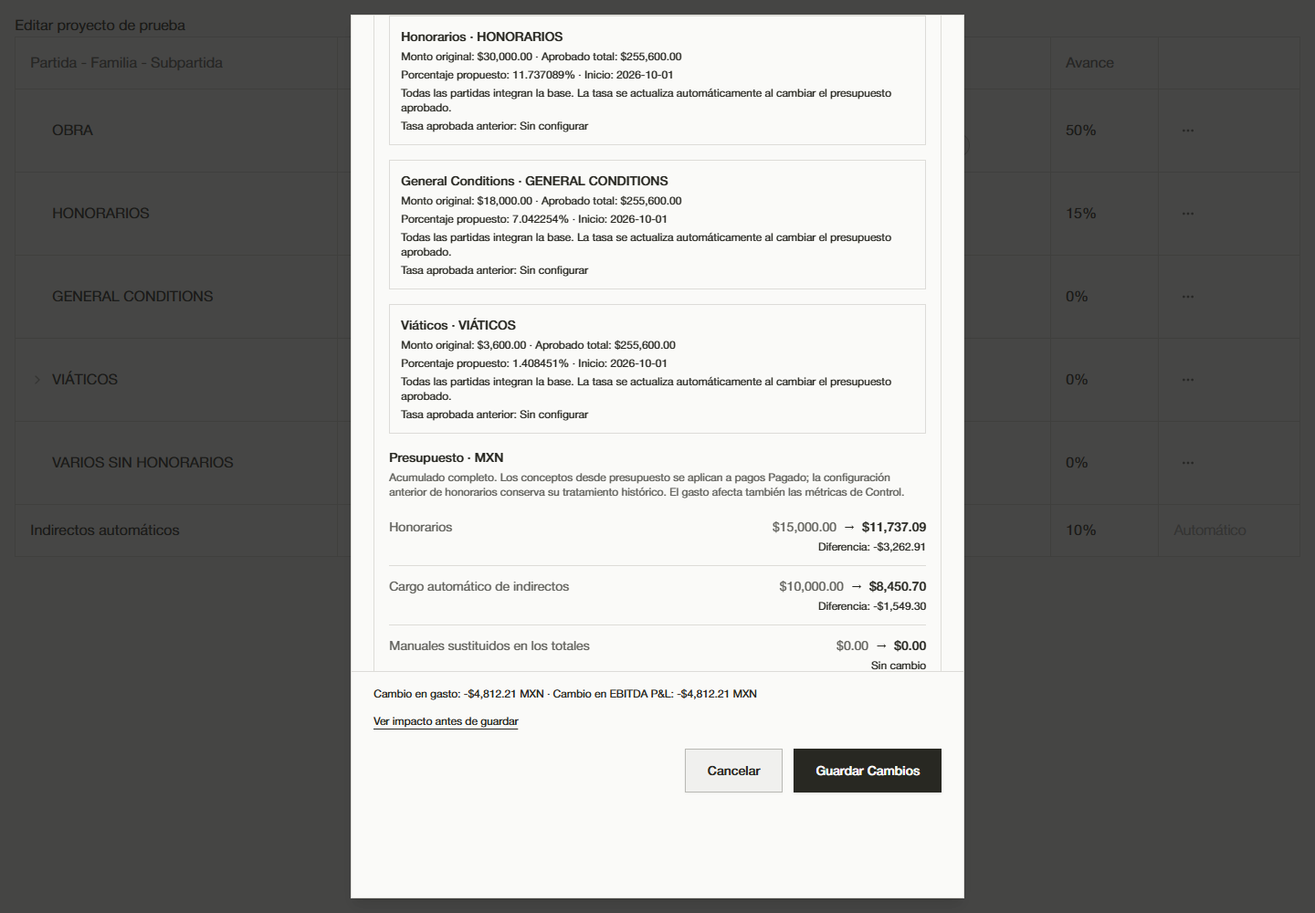
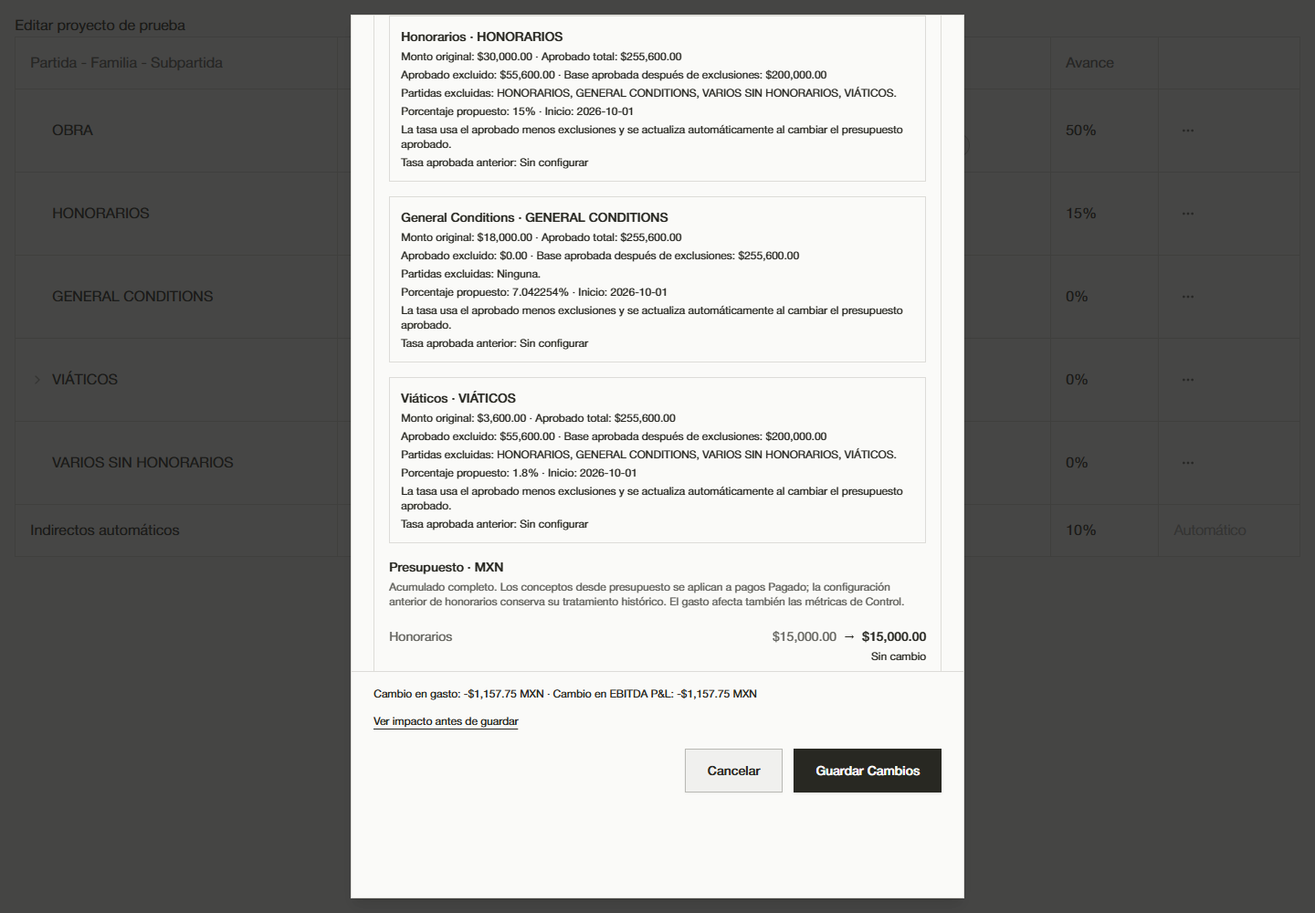
Use approved budget minus exclusions for project fee percentages

Changed region(s): [[0.2812, 0.062, 0.7188, 0.744], [0.5312, 0.744, 0.5625, 0.775], [0.375, 0.744, 0.4062, 0.775]]

diff --git a/src/components/modals/fee-concept-editor.tsx b/src/components/modals/fee-concept-editor.tsx
@@ -1,6 +1,8 @@
+import { useState } from "react";
 import type { Doc, Id } from "../../../convex/_generated/dataModel";
 import { deriveFeeConcepts, FEE_CONCEPT_LABELS, type FeeConceptInput, type FeeConceptConfig, type FeeConceptKind } from "../../../convex/feeConceptRules";
 import { Checkbox } from "@/components/ui/checkbox";
+import { Input } from "@/components/ui/input";
 import { Label } from "@/components/ui/label";
 import { Select, SelectContent, SelectItem, SelectTrigger, SelectValue } from "@/components/ui/select";
 
@@ -9,6 +11,32 @@ const matches = (name: string, kind: FeeConceptKind) => {
   return ({ honorarios: /^honorarios(?:\s|$)/, indirectos: /indirecto/, general_conditions: /general condition|condicion(?:es)? general/, viaticos: /viatico/ })[kind].test(value.trim());
 };
 const money = (value: number, currency: string) => new Intl.NumberFormat("es-MX", { style: "currency", currency }).format(value);
+function ConceptExclusions({ concept, roots, currency, onChange }: {
+  concept: FeeConceptInput; roots: Doc<"partidas">[]; currency: string; onChange: (ids: Id<"partidas">[]) => void;
+}) {
+  const [search, setSearch] = useState("");
+  const normalize = (value: string) => value.normalize("NFD").replace(/[\u0300-\u036f]/g, "").toLowerCase();
+  const filtered = roots.filter(root => normalize(root.nombre).includes(normalize(search.trim())));
+  const label = FEE_CONCEPT_LABELS[concept.concepto];
+  return <details className="space-y-2 text-sm">
+    <summary className="min-h-11 cursor-pointer py-2">Partidas excluidas de la base de {label} ({concept.excluded_partidas.length})</summary>
+    <Label htmlFor={`exclusion-search-${concept.concepto}`}>Buscar partidas para excluir en {label}</Label>
+    <Input id={`exclusion-search-${concept.concepto}`} value={search} onChange={event => setSearch(event.target.value)} placeholder="Nombre de la partida" />
+    <div className="max-h-48 space-y-1 overflow-y-auto border p-2">
+      {filtered.map(root => <div key={root._id} className="flex min-h-11 items-center gap-2">
+        <Checkbox id={`exclude-${concept.concepto}-${root._id}`} checked={concept.excluded_partidas.includes(root._id)} onCheckedChange={checked => onChange(checked
+          ? [...new Set([...concept.excluded_partidas, root._id])]
+          : concept.excluded_partidas.filter(id => id !== root._id))} />
+        <Label htmlFor={`exclude-${concept.concepto}-${root._id}`} className="min-w-0 flex-1 cursor-pointer break-words">
+          <span className="sr-only">Excluir de la base de {label}: </span>{root.nombre}
+          <span className="block text-xs text-muted-foreground">Aprobado: {money(root.presupuesto_aprobado, currency)}</span>
+        </Label>
+      </div>)}
+      {!filtered.length && <p className="text-xs text-muted-foreground">No hay partidas que coincidan con la búsqueda.</p>}
+    </div>
+    <p className="text-xs text-muted-foreground">Se resta el aprobado de cada partida seleccionada una sola vez, con sus familias y subpartidas incluidas.</p>
+  </details>;
+}
 export default function FeeConceptEditor({ value, approved, partidas, currency, onChange }: {
   value: FeeConceptInput[]; approved: readonly FeeConceptConfig[]; partidas: Doc<"partidas">[]; currency: string;
   onChange: (value: FeeConceptInput[]) => void;
@@ -18,7 +46,7 @@ export default function FeeConceptEditor({ value, approved, partidas, currency, 
   return <div className="space-y-4 border-t pt-4">
     <div className="space-y-1">
       <h3 className="text-base font-medium">Porcentajes sobre presupuesto aprobado</h3>
-      <p className="text-xs text-muted-foreground">Porcentaje = monto original del concepto ÷ presupuesto aprobado total del proyecto × 100. Se consideran todas las partidas.</p>
+      <p className="text-xs text-muted-foreground">Porcentaje = monto original del concepto ÷ (presupuesto aprobado total del proyecto − aprobado de las partidas excluidas) × 100.</p>
       <p className="text-xs text-muted-foreground">Al cambiar el presupuesto aprobado, los porcentajes y cargos se actualizan automáticamente. Los cargos se aplican a todos los pagos Pagado desde el 1 de octubre de 2026.</p>
       <p className="text-xs text-muted-foreground">El cargo se distribuye entre familias y subpartidas según sus montos originales; el total es la suma del desglose.</p>
     </div>
@@ -45,9 +73,12 @@ export default function FeeConceptEditor({ value, approved, partidas, currency, 
             <SelectTrigger id={`source-${kind}`}><SelectValue placeholder="Selecciona una partida" /></SelectTrigger>
             <SelectContent>{roots.map(root => <SelectItem key={root._id} value={root._id}>{root.nombre}</SelectItem>)}</SelectContent>
           </Select>
+          <ConceptExclusions concept={current} roots={roots} currency={currency} onChange={ids => update(kind, { excluded_partidas: ids })} />
           {calculation && <dl className="space-y-1 text-sm" aria-live="polite">
             <div><dt className="inline text-muted-foreground">Monto original: </dt><dd className="inline">{money(calculation.monto_original, currency)}</dd></div>
-            <div><dt className="inline text-muted-foreground">Presupuesto aprobado total: </dt><dd className="inline">{money(calculation.base_aprobada!, currency)}</dd></div>
+            <div><dt className="inline text-muted-foreground">Presupuesto aprobado total: </dt><dd className="inline">{money(calculation.aprobado_total!, currency)}</dd></div>
+            <div><dt className="inline text-muted-foreground">Aprobado excluido: </dt><dd className="inline">{money(calculation.aprobado_excluido!, currency)}</dd></div>
+            <div><dt className="inline text-muted-foreground">Base aprobada después de exclusiones: </dt><dd className="inline">{money(calculation.base_aprobada!, currency)}</dd></div>
             <div><dt className="inline text-muted-foreground">Porcentaje calculado: </dt><dd className="inline font-medium" data-testid={`rate-${kind}`}>{calculation.porcentaje.toLocaleString("es-MX", { maximumFractionDigits: 6 })}%</dd></div>
             {old && <div><dt className="inline text-muted-foreground">Tasa actual: </dt><dd className="inline">{old.porcentaje.toLocaleString("es-MX", { maximumFractionDigits: 6 })}%</dd></div>}
           </dl>}

diff --git a/convex/feeConceptRules.ts b/convex/feeConceptRules.ts
@@ -1,16 +1,18 @@
 import type { Id } from "./_generated/dataModel";
 
 export const FEE_CONCEPT_START = "2026-10-01";
+export const FEE_CONCEPT_CALCULATION_VERSION = 2;
 export const FEE_CONCEPT_LABELS = {
   honorarios: "Honorarios", indirectos: "Indirectos", general_conditions: "General Conditions", viaticos: "Viáticos",
 } as const;
 export type FeeConceptKind = keyof typeof FEE_CONCEPT_LABELS;
 export type FeeConceptInput = { concepto: FeeConceptKind; partida_id: Id<"partidas">; excluded_partidas: Id<"partidas">[] };
-export type FeeConceptConfig = FeeConceptInput & { porcentaje: number; monto_original: number; base_original: number; base_aprobada?: number; fecha_inicio: string };
+export type FeeConceptConfig = FeeConceptInput & { porcentaje: number; monto_original: number; base_original: number; base_aprobada?: number; aprobado_total?: number; aprobado_excluido?: number; fecha_inicio: string };
 export type FeeConceptPartida = { _id: string; proyecto?: string; nivel: number; nombre: string; partida_nombre?: string; familia?: string; presupuesto_original?: number; presupuesto_aprobado?: number };
 export function canonicalFeeConcepts(configs: readonly FeeConceptConfig[] = []) {
   return configs.map(c => ({ concepto: c.concepto, partida_id: c.partida_id, excluded_partidas: [...new Set(c.excluded_partidas)].sort(),
-    porcentaje: c.porcentaje, monto_original: c.monto_original, base_original: c.base_original, base_aprobada: c.base_aprobada, fecha_inicio: c.fecha_inicio }))
+    porcentaje: c.porcentaje, monto_original: c.monto_original, base_original: c.base_original, base_aprobada: c.base_aprobada,
+    aprobado_total: c.aprobado_total, aprobado_excluido: c.aprobado_excluido, fecha_inicio: c.fecha_inicio }))
     .sort((a,b) => a.concepto.localeCompare(b.concepto));
 }
 type FeeTransaction = { _id: string; fecha?: string; status?: string; moneda?: string; tipo_cambio?: string | number };
@@ -44,14 +46,24 @@ export function belongsToFeeRoot(partida: FeeConceptPartida, rootId: string, par
   return Boolean(root && (String(partida._id) === String(rootId) ||
     (partida.nivel !== 1 && normalize(partida.partida_nombre) === normalize(root.nombre))));
 }
-export function deriveFeeConcepts(inputs: readonly FeeConceptInput[], partidas: readonly FeeConceptPartida[], previous: readonly FeeConceptConfig[] = [], proyectoId?: string): FeeConceptConfig[] {
+export function feeConceptBudgetBase(excludedPartidas: readonly string[], partidas: readonly FeeConceptPartida[], proyectoId?: string) {
   const roots = partidas.filter(p => p.nivel === 1 && (!proyectoId || p.proyecto === proyectoId));
-  if (!inputs.length) return [];
   if (roots.some(p => !Number.isFinite(p.presupuesto_aprobado) || p.presupuesto_aprobado! < 0)) {
     throw new Error("Revisa los importes del presupuesto aprobado antes de calcular el porcentaje.");
   }
-  const base = roots.reduce((sum, p) => sum + p.presupuesto_aprobado!, 0);
-  if (!Number.isFinite(base) || base <= 0) throw new Error("El presupuesto aprobado total debe ser mayor a cero y finito.");
+  const excluded = [...new Set(excludedPartidas)].sort();
+  if (excluded.some(id => !roots.some(p => String(p._id) === String(id)))) {
+    throw new Error("Las exclusiones deben ser partidas de nivel 1 del mismo proyecto.");
+  }
+  const aprobadoTotal = roots.reduce((sum, p) => sum + p.presupuesto_aprobado!, 0);
+  const aprobadoExcluido = roots.filter(p => excluded.includes(String(p._id))).reduce((sum, p) => sum + p.presupuesto_aprobado!, 0);
+  const base = aprobadoTotal - aprobadoExcluido;
+  if (!Number.isFinite(base) || base <= 0) throw new Error("El presupuesto aprobado menos exclusiones debe ser mayor a cero y finito.");
+  return { aprobadoTotal, aprobadoExcluido, base };
+}
+export function deriveFeeConcepts(inputs: readonly FeeConceptInput[], partidas: readonly FeeConceptPartida[], previous: readonly FeeConceptConfig[] = [], proyectoId?: string): FeeConceptConfig[] {
+  const roots = partidas.filter(p => p.nivel === 1 && (!proyectoId || p.proyecto === proyectoId));
+  if (!inputs.length) return [];
   const kinds = new Set<string>(), sources = new Set<string>();
   const configs = inputs.map(input => {
     if (!Object.prototype.hasOwnProperty.call(FEE_CONCEPT_LABELS, input.concepto) || kinds.has(input.concepto) || sources.has(String(input.partida_id))) {
@@ -66,8 +78,11 @@ export function deriveFeeConcepts(inputs: readonly FeeConceptInput[], partidas: 
       throw new Error("Revisa los importes del presupuesto original antes de calcular el porcentaje.");
     }
     const amount = root.presupuesto_original!;
+    const excluded = [...new Set(input.excluded_partidas)].sort();
+    const { base, aprobadoTotal, aprobadoExcluido } = feeConceptBudgetBase(excluded, roots);
     if (!Number.isFinite(amount / base * 100)) throw new Error("Los importes exceden el rango de cálculo válido.");
-    return { ...input, excluded_partidas: [], monto_original: amount, base_original: base, base_aprobada: base,
+    return { ...input, excluded_partidas: excluded, monto_original: amount, base_original: base, base_aprobada: base,
+      aprobado_total: aprobadoTotal, aprobado_excluido: aprobadoExcluido,
       porcentaje: amount / base * 100, fecha_inicio: previous.find(p => p.concepto === input.concepto)?.fecha_inicio || FEE_CONCEPT_START };
   });
   return configs;

diff --git a/convex/partidaDeletion.ts b/convex/partidaDeletion.ts
@@ -6,7 +6,7 @@ import { normalizeHierarchyText as normalize } from "./partidaRules";
 import { calculatePresupuestoMetrics } from "./presupuestoRules";
 import { calculateBudgetIndirectos, feeBudgetConvert } from "./indirectosBudget";
 import { calculateHonorariosFromRecords } from "./honorariosRules";
-import { belongsToFeeRoot, canonicalFeeConcepts } from "./feeConceptRules";
+import { belongsToFeeRoot, canonicalFeeConcepts, FEE_CONCEPT_CALCULATION_VERSION } from "./feeConceptRules";
 import { repairProjectPaymentTotals } from "./budgetMaintenance";
 
 type Context = QueryCtx | MutationCtx;
@@ -17,7 +17,7 @@ const labels = {
   historial: "registros históricos de avance", requisiciones: "conceptos de requisición",
   rfis: "RFIs", bitacoras: "bitácoras", documentos: "documentos", tareas: "tareas",
   subcontratistas: "subcontratistas", facturas: "conceptos de factura",
-  memoria: "registros de memoria de clasificación", exclusiones: "configuraciones de exclusión de honorarios",
+  memoria: "registros de memoria de clasificación", exclusiones: "configuraciones de conceptos y exclusiones",
   proyecciones: "proyecciones financieras",
 };
 type Category = keyof typeof labels;
@@ -169,6 +169,7 @@ async function inspect(ctx: Context, id: Id<"partidas">, projectId: Id<"desarrol
     // Include siblings used by rollups and all roots used by project metrics.
     // This is a content snapshot, not a client-authoritative list of deletions.
     impact.expectedScope = JSON.stringify({
+      calculationVersion: FEE_CONCEPT_CALCULATION_VERSION,
       projectId, honorarios: project.honorarios_monto ?? null,
       rows: partidas.filter(p => p.nivel === 1 || partidaRootName(p) === root)
         .sort((a, b) => String(a._id).localeCompare(String(b._id)))
@@ -176,6 +177,11 @@ async function inspect(ctx: Context, id: Id<"partidas">, projectId: Id<"desarrol
           p.presupuesto_original, p.presupuesto_aprobado, p.pagado]),
     });
     if (project.fee_concepts?.length) {
+      if (project.fee_concepts.some(c => c.excluded_partidas.some(id => ids.has(id)))) {
+        impact.blockers.push("La partida está excluida de la base de un concepto automático. Retira esa exclusión antes de eliminarla.");
+        impact.expectedScope = "";
+        return { impact, project, target, selected, remaining };
+      }
       if (project.fee_concepts.some(c => ids.has(c.partida_id))) {
         impact.blockers.push("La partida es el origen de un concepto automático. Cambia su configuración antes de eliminarla.");
         impact.expectedScope = "";
@@ -263,7 +269,7 @@ async function inspect(ctx: Context, id: Id<"partidas">, projectId: Id<"desarrol
     // budget, including malformed historical cross-project references.
     add("tareas", await budget.collect(ctx.db.query("tareas")), t => (t.partidas || []).some(id => ids.has(id)));
     add("exclusiones", await budget.collect(ctx.db.query("desarrollos")), p => (p.excluded_partidas_honorarios || []).some(id => ids.has(id)) ||
-      (p.fee_concepts || []).some(c => ids.has(c.partida_id)));
+      (p.fee_concepts || []).some(c => ids.has(c.partida_id) || c.excluded_partidas.some(id => ids.has(id))));
 
     const removesName = (partida: string, familia?: string, sub?: string) => {
       const matches = (p: Doc<"partidas">) => normalize(partidaRootName(p)) === normalize(partida) &&

diff --git a/convex/meticas_presupuesto.ts b/convex/meticas_presupuesto.ts
@@ -19,7 +19,6 @@ export const getByProyecto = query({
     
     // Get honorarios_monto from the proyecto
     const proyecto = await ctx.db.get(args.proyecto_id);
-    const honorarios_monto = proyecto?.honorarios_monto || 0;
     
     if (!metrics) {
       return null;
@@ -33,11 +32,13 @@ export const getByProyecto = query({
       .withIndex("by_nivel_proyecto", (q) => q.eq("nivel", 1).eq("proyecto", args.proyecto_id))
       .collect();
     const indirectos = await getBudgetIndirectos(ctx, proyecto);
+    const honorariosActual = indirectos.honorariosMontoActual ?? proyecto?.honorarios_monto;
+    const honorarios_monto = honorariosActual ?? 0;
     return {
       indirectos_monto: indirectos.automaticos,
       indirectos_manuales_sustituidos: indirectos.manualesSustituidos,
       ...metrics,
-      ...calculatePresupuestoMetrics(nivel1Partidas, proyecto?.honorarios_monto, indirectos),
+      ...calculatePresupuestoMetrics(nivel1Partidas, honorariosActual, indirectos),
       honorarios_monto,
     };
   },
@@ -150,16 +151,13 @@ export const getFilteredMetrics = query({
 
     // Calculate honorarios based on date filter
     const proyecto = await ctx.db.get(args.proyecto_id);
+    const periodPagos = (await Promise.all(filteredTransactions.map(transaction => ctx.db.query("pagos")
+      .withIndex("by_transaccion", q => q.eq("transaccion_id", transaction._id)).collect()))).flat();
     let honorarios = 0;
-    if (!startDate) {
+    if (!startDate && !proyecto?.fee_concepts?.some(c => c.concepto === "honorarios")) {
       // "Todo el tiempo" - use pre-calculated honorarios_monto
       honorarios = proyecto?.honorarios_monto || 0;
     } else {
-      const pagos = (await Promise.all(filteredTransactions.map((transaction) =>
-        ctx.db.query("pagos")
-          .withIndex("by_transaccion", (q) => q.eq("transaccion_id", transaction._id))
-          .collect()
-      ))).flat();
       honorarios = calculateHonorariosFromRecords({
       feeConcepts: proyecto?.fee_concepts, convert: feeBudgetConvert(proyecto),
         proyectoId: String(args.proyecto_id),
@@ -167,16 +165,15 @@ export const getFilteredMetrics = query({
         porcentaje: proyecto?.honorarios_porcentaje,
         excludedPartidas: proyecto?.excluded_partidas_honorarios,
         transactions: filteredTransactions,
-        pagos,
+        pagos: periodPagos,
         partidas: allPartidas,
       });
     }
 
-    const periodPagos = (await Promise.all(filteredTransactions.map(transaction => ctx.db.query("pagos")
-      .withIndex("by_transaccion", q => q.eq("transaccion_id", transaction._id)).collect()))).flat();
     const indirectos = calculateBudgetIndirectos(proyecto, allPartidas, filteredTransactions, periodPagos);
     if (!startDate) {
-      gasto = calculatePresupuestoMetrics(allPartidas, proyecto?.honorarios_monto, indirectos).gasto_total;
+      const honorariosActual = proyecto?.fee_concepts?.some(c => c.concepto === "honorarios") ? honorarios : proyecto?.honorarios_monto;
+      gasto = calculatePresupuestoMetrics(allPartidas, honorariosActual, indirectos).gasto_total;
     } else {
       gasto += indirectos.automaticos - indirectos.manualesSustituidos;
     }

diff --git a/src/components/modals/project-fee-impact-review.tsx b/src/components/modals/project-fee-impact-review.tsx
@@ -68,9 +68,11 @@ export default function ProjectFeeImpactReview({ impact, partidas }: { impact: F
     </details>
     {[...(impact.afterConfig.fee_concepts || [])].sort((a,b) => Object.keys(FEE_CONCEPT_LABELS).indexOf(a.concepto) - Object.keys(FEE_CONCEPT_LABELS).indexOf(b.concepto)).map(concept => <div key={concept.concepto} className="space-y-1 border p-3 text-xs" data-testid={`concept-review-${concept.concepto}`}>
       <h3 className="text-sm font-medium">{FEE_CONCEPT_LABELS[concept.concepto]} · {name(concept.partida_id)}</h3>
-      <p>Monto original: {money(concept.monto_original, impact.budgetCurrency)} · Aprobado total: {money(concept.base_aprobada ?? concept.base_original, impact.budgetCurrency)}</p>
+      <p>Monto original: {money(concept.monto_original, impact.budgetCurrency)} · Aprobado total: {money(concept.aprobado_total ?? concept.base_aprobada ?? concept.base_original, impact.budgetCurrency)}</p>
+      <p>Aprobado excluido: {money(concept.aprobado_excluido ?? 0, impact.budgetCurrency)} · Base aprobada después de exclusiones: {money(concept.base_aprobada ?? concept.base_original, impact.budgetCurrency)}</p>
+      <p>Partidas excluidas: {concept.excluded_partidas.length ? concept.excluded_partidas.map(name).join(", ") : "Ninguna"}.</p>
       <p>Porcentaje propuesto: {concept.porcentaje.toLocaleString("es-MX", { maximumFractionDigits: 6 })}% · Inicio: {concept.fecha_inicio}</p>
-      <p>Todas las partidas integran la base. La tasa se actualiza automáticamente al cambiar el presupuesto aprobado.</p>
+      <p>La tasa usa el aprobado menos exclusiones y se actualiza automáticamente al cambiar el presupuesto aprobado.</p>
       <p>Tasa aprobada anterior: {(impact.beforeConfig.fee_concepts || []).some(c => c.concepto === concept.concepto) ? `${(impact.beforeConfig.fee_concepts || []).find(c => c.concepto === concept.concepto)!.porcentaje.toLocaleString("es-MX", { maximumFractionDigits: 6 })}%` : "Sin configurar"}</p>
     </div>)}
     {impact.beforeConfig.indirectos_porcentaje === null && impact.afterConfig.indirectos_porcentaje !== null && <p className="border-l-2 border-foreground pl-3 text-xs" role="status">La activación sustituye componentes manuales desde la fecha de inicio, incluso al 0%. Los registros no se eliminan.</p>}

diff --git a/convex/indirectosBudget.ts b/convex/indirectosBudget.ts
@@ -1,11 +1,12 @@
 import type { QueryCtx } from "./_generated/server";
 import type { Doc } from "./_generated/dataModel";
 import { calculateIndirectosFromRecords } from "./indirectosRules";
+import { calculateHonorariosFromRecords } from "./honorariosRules";
 
 // Budget amounts use the project's display currency; P&L converts to MXN.
 export async function getBudgetIndirectos(ctx: Pick<QueryCtx, "db">, project: Doc<"desarrollos"> | null) {
   if (!project || (project.indirectos_porcentaje === undefined && !project.fee_concepts?.length)) {
-    return { automaticos: 0, manualesSustituidos: 0, sustituidosPorPartida: {} as Record<string, number>, automaticosPorPartida: {} as Record<string, number>, porcentajesPorPartida: {} as Record<string, number>, concepts: [], honorariosPartidaId: undefined };
+    return { automaticos: 0, manualesSustituidos: 0, sustituidosPorPartida: {} as Record<string, number>, automaticosPorPartida: {} as Record<string, number>, porcentajesPorPartida: {} as Record<string, number>, concepts: [], honorariosPartidaId: undefined, honorariosMontoActual: undefined };
   }
   const [partidas, transactions] = await Promise.all([
     ctx.db.query("partidas").withIndex("by_proyecto", q => q.eq("proyecto", project._id)).collect(),
@@ -13,7 +14,12 @@ export async function getBudgetIndirectos(ctx: Pick<QueryCtx, "db">, project: Do
   ]);
   const pagos = (await Promise.all(transactions.map(t => ctx.db.query("pagos")
     .withIndex("by_transaccion", q => q.eq("transaccion_id", t._id)).collect()))).flat();
-  return calculateBudgetIndirectos(project, partidas, transactions, pagos);
+  const honorariosMontoActual = project.fee_concepts?.some(c => c.concepto === "honorarios")
+    ? calculateHonorariosFromRecords({ proyectoId: String(project._id), modo: project.honorarios_modo,
+      porcentaje: project.honorarios_porcentaje, excludedPartidas: project.excluded_partidas_honorarios,
+      feeConcepts: project.fee_concepts, convert: feeBudgetConvert(project), partidas, transactions, pagos })
+    : undefined;
+  return { ...calculateBudgetIndirectos(project, partidas, transactions, pagos), honorariosMontoActual };
 }
 
 export function calculateBudgetIndirectos(

diff --git a/src/pages/ProfitAndLoss/ProfitAndLossPage.tsx b/src/pages/ProfitAndLoss/ProfitAndLossPage.tsx
@@ -532,7 +532,7 @@ const buildMonthlyDataNote = (months: PnlMonth[], pnlSummary?: PnlSummary) => {
     return `Honorarios calculados exclusivamente con el porcentaje automático de cada obra sobre pagos elegibles; indirectos automáticos desde la fecha de inicio configurada por obra; costos reales desde movimientos OGC. Los periodos anteriores conservan indirectos históricos. DISP HONORARIOS se reconoce como costo de estructura en la fecha del movimiento. ${monthsWithMovements}/${months.length} meses tienen movimientos fechados; sin prorrateo lineal.`;
   }
 
-  return "Los conceptos configurados usan todos los pagos Pagado desde su fecha de inicio, sin exclusiones. Sus porcentajes se calculan con el monto original del concepto sobre el presupuesto aprobado total y se actualizan al cambiar ese presupuesto. Indirectos agrupa Indirectos, General Conditions y Viáticos. Los costos reales provienen de movimientos OGC y los periodos anteriores conservan el tratamiento histórico. DISP HONORARIOS se reconoce como costo de estructura en la fecha del movimiento, sin prorrateo lineal.";
+  return "Los conceptos configurados usan todos los pagos Pagado desde su fecha de inicio. Sus porcentajes se calculan con el monto original del concepto dividido entre el presupuesto aprobado total menos el aprobado de sus partidas excluidas, y se actualizan al cambiar ese presupuesto. Las exclusiones ajustan la base presupuestal del porcentaje. Indirectos agrupa Indirectos, General Conditions y Viáticos. Los costos reales provienen de movimientos OGC y los periodos anteriores conservan el tratamiento histórico. DISP HONORARIOS se reconoce como costo de estructura en la fecha del movimiento, sin prorrateo lineal.";
 };
 
 function MonthlyPnlTable({

diff --git a/convex/paymentEdit.ts b/convex/paymentEdit.ts
@@ -12,6 +12,7 @@ import { calculateBudgetIndirectos } from "./indirectosBudget";
 import { calculatePresupuestoMetrics } from "./presupuestoRules";
 import { reportDateIso } from "./indirectosRules";
 import { summarizeProjectPaymentRecords } from "./desarrollos";
+import { FEE_CONCEPT_CALCULATION_VERSION } from "./feeConceptRules";
 
 export const editFields = {
   proveedor_id: v.optional(v.union(v.id("proveedores"), v.null())),
@@ -190,7 +191,7 @@ export async function preparePaymentEdit(ctx: ReadCtx, draft: PaymentEditDraft) 
   const invalidatesInvoices = changedItems.length > 0 || transactionChangeInvalidatesInvoice(before, patch);
   const oldProvider = before.proveedor_id && before.proveedor_id !== effective.proveedor_id ? await ctx.db.get(before.proveedor_id) : provider;
   // Canonical exact scope includes every input used by the review, not just the entity timestamp.
-  const scope = JSON.stringify([context.source, project, sorted(records.partidas), sorted(records.transactions), sorted(records.pagos),
+  const scope = JSON.stringify([FEE_CONCEPT_CALCULATION_VERSION, context.source, project, sorted(records.partidas), sorted(records.transactions), sorted(records.pagos),
     fields, [...amounts].sort(([a], [b]) => a.localeCompare(b)), provider, oldProvider, account, sorted(invoices), sorted(allocations), sorted(documents)]);
   if (new TextEncoder().encode(scope).byteLength > 512 * 1024) throw new Error(CAPACITY);
   const dates = [reportDateIso(before.fecha), reportDateIso(effective.fecha)].filter((d): d is string => Boolean(d)).sort();

diff --git a/convex/partidaEdit.ts b/convex/partidaEdit.ts
@@ -9,6 +9,7 @@ import { calculateBudgetIndirectos, feeBudgetConvert } from "./indirectosBudget"
 import { calculateHonorariosFromRecords } from "./honorariosRules";
 import { repairProjectPaymentTotals } from "./budgetMaintenance";
 import { calculatePresupuestoMetrics } from "./presupuestoRules";
+import { FEE_CONCEPT_CALCULATION_VERSION } from "./feeConceptRules";
 
 export const partidaEditFields = {
   presupuesto_aprobado: v.optional(v.number()), sub_partida: v.optional(v.string()),
@@ -164,6 +165,7 @@ export async function analyzePartidaEdit(ctx: ReadCtx, args: Identity & { change
     project: { before, after, indirectosBefore: beforeIndirectos, indirectosAfter: afterIndirectos, honorarios: project.honorarios_monto ?? 0 },
     programming: { count: program.length, oldNameStillExists: plan.oldNameStillExists, renamed: plan.changes.sub_partida !== undefined },
     expectedReview: JSON.stringify([
+      FEE_CONCEPT_CALCULATION_VERSION,
       context.source, project.nombre, project.moneda_principal, project.honorarios_monto, project.indirectos_porcentaje,
       project.indirectos_fecha_inicio, [...(project.excluded_partidas_honorarios || [])].sort(), project.fee_concepts || [],
       sorted(partidas).map(partidaEditSource), plan.changes, before, after, beforeIndirectos, afterIndirectos,

diff --git a/convex/projectFeeImpact.ts b/convex/projectFeeImpact.ts
@@ -4,7 +4,7 @@ import { v } from "convex/values";
 import { getHonorariosBreakdown, getHonorariosModo } from "./honorariosRules";
 import { INDIRECTOS_START, validateIndirectosPercentage } from "./indirectosRules";
 import { calculateBudgetIndirectos, feeBudgetConvert } from "./indirectosBudget";
-import { deriveFeeConcepts, canonicalFeeConcepts, type FeeConceptInput } from "./feeConceptRules";
+import { deriveFeeConcepts, canonicalFeeConcepts, FEE_CONCEPT_CALCULATION_VERSION, type FeeConceptInput } from "./feeConceptRules";
 import { feeConceptInputValidator } from "./feeConceptValidators";
 import { calculatePresupuestoMetrics } from "./presupuestoRules";
 
@@ -80,7 +80,7 @@ export function feeImpactScope(project: Doc<"desarrollos">, proposed: Doc<"desar
   // Exact canonical scope, rather than a collision-prone checksum. Only financial
   // inputs are sent back; bank details and document attachments are excluded.
   const scope = JSON.stringify({
-    version: 1,
+    version: FEE_CONCEPT_CALCULATION_VERSION,
     project: [project._id, project.organization_id, project.moneda_principal, project.honorarios_monto, feeConfig(project)],
     proposal: feeConfig(proposed),
     rates: [17, 18.5],

diff --git a/src/lib/project-fee-draft.ts b/src/lib/project-fee-draft.ts
@@ -26,7 +26,8 @@ export function projectDraftPatch(baseline: Doc<"desarrollos">, draft: ProjectDr
   if (idsKey(draft.excludedPartidas) !== idsKey(baseline.excluded_partidas_honorarios || [])) {
     financial.excluded_partidas_honorarios = [...new Set(draft.excludedPartidas)].sort();
   }
-  const conceptKey = (concepts: readonly FeeConceptInput[]) => JSON.stringify(concepts.map(c => ({ concepto: c.concepto, partida_id: c.partida_id })).sort((a,b) => a.concepto.localeCompare(b.concepto)));
+  const conceptKey = (concepts: readonly FeeConceptInput[]) => JSON.stringify(concepts.map(c => ({ concepto: c.concepto, partida_id: c.partida_id,
+    excluded_partidas: idsKey(c.excluded_partidas) })).sort((a,b) => a.concepto.localeCompare(b.concepto)));
   if (draft.feeConcepts && (draft.recalculateConcepts || conceptKey(draft.feeConcepts) !== conceptKey(baseline.fee_concepts || []))) {
     financial.fee_concepts = draft.feeConcepts;
   }

diff --git a/convex/feeConceptValidators.ts b/convex/feeConceptValidators.ts
@@ -2,4 +2,5 @@ import { v } from "convex/values";
 const kind = v.union(v.literal("honorarios"), v.literal("indirectos"), v.literal("general_conditions"), v.literal("viaticos"));
 export const feeConceptInputValidator = v.object({ concepto: kind, partida_id: v.id("partidas"), excluded_partidas: v.array(v.id("partidas")) });
 export const feeConceptConfigValidator = v.object({ concepto: kind, partida_id: v.id("partidas"), excluded_partidas: v.array(v.id("partidas")),
-  porcentaje: v.number(), monto_original: v.number(), base_original: v.number(), base_aprobada: v.optional(v.number()), fecha_inicio: v.string() });
+  porcentaje: v.number(), monto_original: v.number(), base_original: v.number(), base_aprobada: v.optional(v.number()),
+  aprobado_total: v.optional(v.number()), aprobado_excluido: v.optional(v.number()), fecha_inicio: v.string() });
